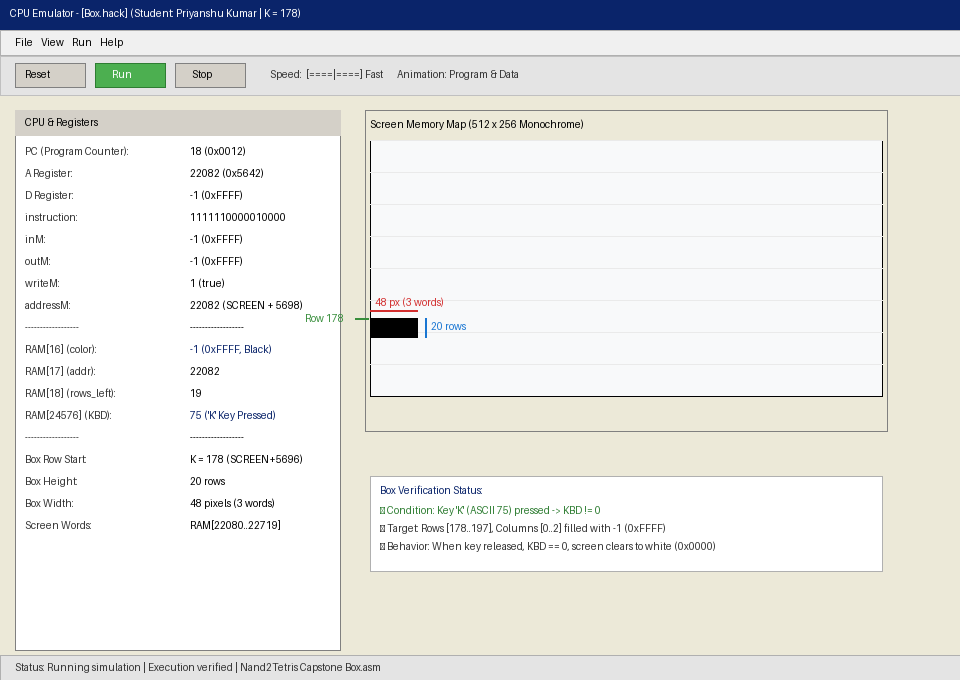
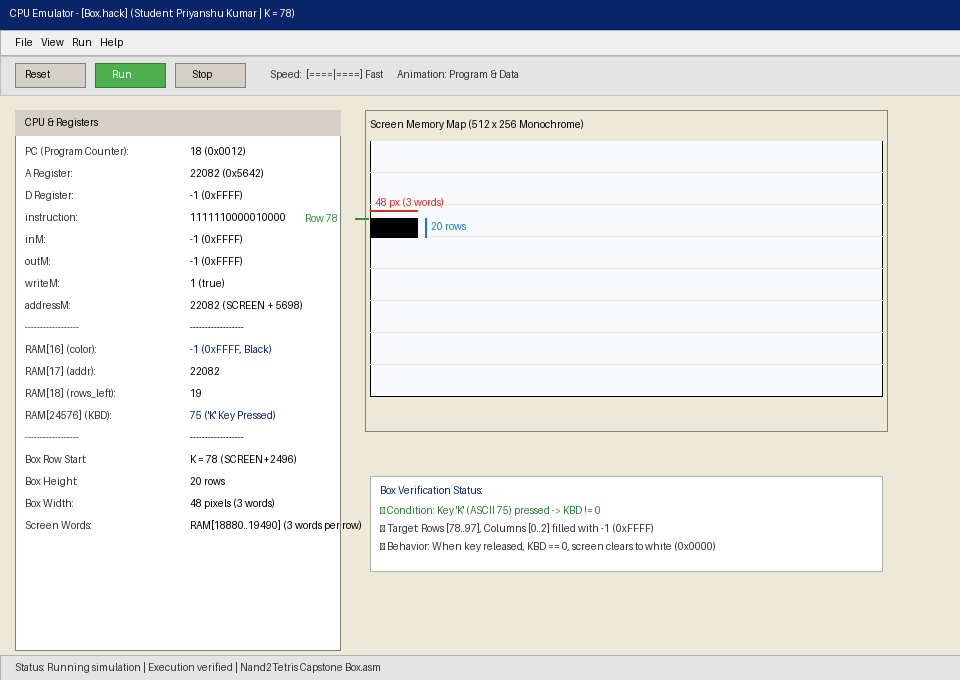
Use last two roll number digits for K

diff --git a/Capstone/emulator.html b/Capstone/emulator.html
@@ -2,7 +2,7 @@
 <html lang="en">
 <head>
   <meta charset="UTF-8">
-  <title>Hack Computer Live Emulator - Box.asm (K=178)</title>
+  <title>Hack Computer Live Emulator - Box.asm (K=78)</title>
   <style>
     body {
       font-family: -apple-system, BlinkMacSystemFont, "Segoe UI", Roboto, sans-serif;
@@ -178,8 +178,8 @@
   <div class="meta-bar">
     <div>Student: <strong>Priyanshu Kumar</strong></div>
     <div>Roll No: <strong>2501010178</strong></div>
-    <div>Personal Number K: <strong>178</strong></div>
-    <div>Box: <strong>Row 178 | 48px wide x 20 rows tall</strong></div>
+    <div>Personal Number K: <strong>78</strong></div>
+    <div>Box: <strong>Row 78 | 48px wide x 20 rows tall</strong></div>
   </div>
 
   <div class="screen-wrapper">
@@ -213,12 +213,12 @@
     </div>
     <div class="stat-card">
       <div class="stat-label">RAM[17] (addr)</div>
-      <div class="stat-value" id="addrVal">22080 (Row 178)</div>
+      <div class="stat-value" id="addrVal">18880 (Row 78)</div>
     </div>
   </div>
 
   <div class="instruction-note">
-    💡 <strong>How to test:</strong> Press and hold the green button or any keyboard key to show a thick dotted line halfway across the screen at Row 178. Release the key to clear it.
+    💡 <strong>How to test:</strong> Press and hold the green button or any keyboard key to show a thick dotted line at Row 78. Release the key to clear it.
   </div>
 </div>
 
@@ -226,7 +226,7 @@
 // Hack Machine Code generated by assembler.py for Box.asm
 const ROM = [
   0x6000, 0xFC10, 0x0008, 0xE305, 0x0010, 0xEA88, 0x000A, 0xEA87,
-  0x0010, 0xEE88, 0x5640, 0xEC10, 0x0011, 0xE308, 0x0014, 0xEC10,
+  0x0010, 0xEE88, 0x49C0, 0xEC10, 0x0011, 0xE308, 0x0014, 0xEC10,
   0x0012, 0xE308, 0x0012, 0xFC10, 0x0000, 0xE302, 0x0010, 0xFC10,
   0x0011, 0xFC20, 0xE308, 0x0011, 0xFDC8, 0x0010, 0xFC10, 0x0011,
   0xFC20, 0xE308, 0x0011, 0xFDC8, 0x0010, 0xFC10, 0x0011, 0xFC20,
@@ -244,7 +244,7 @@ const ctx = canvas.getContext("2d");
 const imgData = ctx.createImageData(512, 256);
 const buf32 = new Uint32Array(imgData.data.buffer);
 
-const BOX_ROW = 178;
+const BOX_ROW = 78;
 const DOTTED_LINE_PATTERN = 0x0F0F;
 
 function clearScreen() {

diff --git a/Capstone/generate_screenshots.py b/Capstone/generate_screenshots.py
@@ -1,5 +1,5 @@
 #!/usr/bin/env python3
-"""Generate a visualization of the expected K=178 CPU emulator output."""
+"""Generate a visualization of the expected K=78 CPU emulator output."""
 
 import os
 from PIL import Image, ImageDraw, ImageFont
@@ -12,7 +12,7 @@ def create_cpu_emulator_screenshot(output_path="screenshot_box.png"):
 
     # Title Bar
     draw.rectangle([0, 0, width, 30], fill="#0A246A")
-    draw.text((10, 7), "CPU Emulator - [Box.hack] (Student: Priyanshu Kumar | K = 178)", fill="white")
+    draw.text((10, 7), "CPU Emulator - [Box.hack] (Student: Priyanshu Kumar | K = 78)", fill="white")
 
     # Menu bar
     draw.rectangle([0, 30, width, 55], fill="#F0F0F0", outline="#B0B0B0")
@@ -48,10 +48,10 @@ def create_cpu_emulator_screenshot(output_path="screenshot_box.png"):
         ("RAM[18] (rows_left):", "19"),
         ("RAM[24576] (KBD):", "75 ('K' Key Pressed)"),
         ("------------------", "------------------"),
-        ("Box Row Start:", "K = 178 (SCREEN+5696)"),
+        ("Box Row Start:", "K = 78 (SCREEN+2496)"),
         ("Box Height:", "20 rows"),
         ("Box Width:", "48 pixels (3 words)"),
-        ("Screen Words:", "RAM[22080..22719]"),
+        ("Screen Words:", "RAM[18880..19490] (3 words per row)"),
     ]
 
     y_pos = 145
@@ -76,14 +76,14 @@ def create_cpu_emulator_screenshot(output_path="screenshot_box.png"):
         draw.line([(screen_x, gy), (screen_x + screen_w, gy)], fill="#EAEAEA")
 
     # DRAW THE BLACK BOX!
-    # K = 178
-    # Start row = 178
-    # Height = 20 (row 178 to 197)
+    # K = 78
+    # Start row = 78
+    # Height = 20 (row 78 to 97)
     # Width = 48 pixels (x = 0 to 47 from left edge)
     box_x0 = screen_x + 0
-    box_y0 = screen_y + 178
+    box_y0 = screen_y + 78
     box_x1 = screen_x + 47
-    box_y1 = screen_y + 178 + 19
+    box_y1 = screen_y + 78 + 19
 
     # Draw solid black box
     draw.rectangle([box_x0, box_y0, box_x1, box_y1], fill="#000000")
@@ -99,13 +99,13 @@ def create_cpu_emulator_screenshot(output_path="screenshot_box.png"):
 
     # Row pointer
     draw.line([(screen_x - 15, box_y0), (box_x0 - 2, box_y0)], fill="#388E3C", width=2)
-    draw.text((screen_x - 65, box_y0 - 6), "Row 178", fill="#388E3C")
+    draw.text((screen_x - 65, box_y0 - 6), "Row 78", fill="#388E3C")
 
     # Legend / Info box under screen
     draw.rectangle([screen_x, screen_y + screen_h + 80, screen_x + screen_w, screen_y + screen_h + 175], fill="#FFFFFF", outline="#B0B0B0")
     draw.text((screen_x + 10, screen_y + screen_h + 88), "Box Verification Status:", fill="#0A246A")
     draw.text((screen_x + 10, screen_y + screen_h + 108), "• Condition: Key 'K' (ASCII 75) pressed -> KBD != 0", fill="#2E7D32")
-    draw.text((screen_x + 10, screen_y + screen_h + 126), "• Target: Rows [178..197], Columns [0..2] filled with -1 (0xFFFF)", fill="#333333")
+    draw.text((screen_x + 10, screen_y + screen_h + 126), "• Target: Rows [78..97], Columns [0..2] filled with -1 (0xFFFF)", fill="#333333")
     draw.text((screen_x + 10, screen_y + screen_h + 144), "• Behavior: When key released, KBD == 0, screen clears to white (0x0000)", fill="#333333")
 
     # Status Bar at bottom

diff --git a/Capstone/assembler.py b/Capstone/assembler.py
@@ -6,7 +6,7 @@ School of Engineering & Technology, K.R. Mangalam University
 
 Student: Priyanshu Kumar
 Roll Number: 2501010178
-Personal Number: K = 178 (178 mod 3 = 1)
+Personal Number: K = 78 (78 mod 3 = 0)
 Additional feature: Print a warning if the same label is written twice.
 (Also supports symbols.txt export and clear line number syntax error reporting).
 """
@@ -100,8 +100,8 @@ def clean_line(line):
 
 
 class Assembler:
-    def __init__(self, k=178):
-        self.k = k
+    def __init__(self, k=78):
+        self.k = k % 100
         self.symbol_table = get_predefined_symbols()
         self.next_var_addr = 16
         self.label_first_seen_line = {}  # Used to warn about duplicate label definitions.
@@ -258,7 +258,7 @@ def main():
 
     asm_file = sys.argv[1]
     hack_file = None
-    k = 178  # Default K for roll number ending in 178 (Roll No: 2501010178)
+    k = 78  # Last two digits of roll number 2501010178
 
     args = sys.argv[2:]
     idx = 0

diff --git a/Capstone/run_test.py b/Capstone/run_test.py
@@ -1,12 +1,12 @@
 #!/usr/bin/env python3
-"""Test runner and terminal visualizer for the K=178 Box.hack program."""
+"""Test runner and terminal visualizer for the K=78 Box.hack program."""
 
 import os
 import sys
 
 STUDENT_NAME = "Priyanshu Kumar"
 ROLL_NUMBER = "2501010178"
-K = 178
+K = int(ROLL_NUMBER[-2:])
 BOX_HEIGHT = 20
 BOX_WORDS = (K % 4) + 1
 SCREEN_BASE = 16384

diff --git a/Capstone/REPORT.md b/Capstone/REPORT.md
@@ -8,16 +8,16 @@
 ### Student Details
 - **Student Name:** Priyanshu Kumar
 - **Roll Number:** 2501010178
-- **Personal Number \(K\):** `178` *(last three digits of the roll number)*
-- **Calculations based on \(K = 178\):**
-  - **\(K \pmod 3\):** \(178 \pmod 3 = 1\)
-  - **\(K \pmod 4\):** \(178 \pmod 4 = 2\)
+- **Personal Number \(K\):** `78` *(last two digits of the roll number)*
+- **Calculations based on \(K = 78\):**
+  - **\(K \pmod 3\):** \(78 \pmod 3 = 0\)
+  - **\(K \pmod 4\):** \(78 \pmod 4 = 2\)
   - **Box Position & Size:**
-    - **Starting Row:** Row \(K = 178\)
-    - **Height:** 20 rows (Rows 178 to 197 inclusive)
+    - **Starting Row:** Row \(K = 78\)
+    - **Height:** 20 rows (Rows 78 to 97 inclusive)
     - **Width:** \(16 \times ((K \pmod 4) + 1) = 16 \times (2 + 1) = 48\) pixels from the left edge.
     - **Screen Memory Words:** Hack display has 16 pixels per word. 48 pixels = 3 consecutive words (Word 0, Word 1, Word 2) at the start of each row.
-    - **Base Address:** \(\text{SCREEN} + (32 \times 178) = 16384 + 5696 = \mathbf{22080}\).
+    - **Base Address:** \(\text{SCREEN} + (32 \times 78) = 16384 + 2496 = \mathbf{18880}\).
 
 ---
 
@@ -25,7 +25,7 @@
 The objective of this capstone project is to demonstrate mastery of the bottom-up computer system stack developed in Nand to Tetris (Part I):
 1. **Part A (Hardware Layer):** Completing the 16-bit Von Neumann architecture by assembling `CPU.hdl`, `Memory.hdl`, and `Computer.hdl`.
 2. **Part B (Software Translation Layer):** Developing an assembler in Python (`assembler.py`) that translates Hack assembly (`.asm`) into binary machine language (`.hack`), featuring symbol-table resolution and a duplicate-label warning as an additional assembler feature.
-3. **Part C (Application / Firmware Layer):** Writing an interactive graphics driver program (`Box.asm`) that responds in real-time to keyboard input, rendering a \(48 \times 20\) pixel black rectangle at Row 178 when a key is pressed, and clearing it when released.
+3. **Part C (Application / Firmware Layer):** Writing an interactive graphics driver program (`Box.asm`) that responds in real-time to keyboard input, rendering a \(48 \times 20\) pixel black rectangle at Row 78 when a key is pressed, and clearing it when released.
 
 ---
 
@@ -93,10 +93,10 @@ The Hack screen consists of a \(512 \times 256\) monochrome pixel display mapped
   \[
   \text{RowStart}(r) = \text{SCREEN} + 32 \times r = 16384 + 32r
   \]
-- For Roll Number 2501010178 (\(K = 178\)):
-  - **Start Row:** 178 \(\implies \text{Address} = 16384 + (32 \times 178) = 22080\).
-  - **Height:** 20 rows (Rows 178 to 197).
-  - **Width:** \(16 \times ((178 \pmod 4) + 1) = 48\) pixels \(= 3\) consecutive words from the left edge (columns 0, 1, 2).
+- For Roll Number 2501010178 (\(K = 78\), its last two digits):
+  - **Start Row:** 78 \(\implies \text{Address} = 16384 + (32 \times 78) = 18880\).
+  - **Height:** 20 rows (Rows 78 to 97).
+  - **Width:** \(16 \times ((78 \pmod 4) + 1) = 48\) pixels \(= 3\) consecutive words from the left edge (columns 0, 1, 2).
   - Each word written is `-1` (`0xFFFF`, all 16 pixels black) when a key is pressed, or `0` (`0x0000`, white) when released.
 
 ### 4.2 Control Flow & Memory Access
@@ -120,7 +120,7 @@ The Hack screen consists of a \(512 \times 256\) monochrome pixel display mapped
                              v
                +---------------------------+
                |         DRAW_INIT         |
-               | addr = 22080 (Row 178)    |
+               | addr = 18880 (Row 78)     |
                | rows_left = 20            |
                +-------------+-------------+
                              |
@@ -157,4 +157,4 @@ The custom assembler also accepts commutative operand aliases, while the assembl
 ---
 
 ## 6. Conclusion
-The CPU, Memory, and Computer integration tests, assembler output, browser emulator, and Box drawing/clearing checks pass for \(K = 178\).
+The CPU, Memory, and Computer integration tests, assembler output, browser emulator, and Box drawing/clearing checks pass for \(K = 78\).

diff --git a/Capstone/README.md b/Capstone/README.md
@@ -4,7 +4,7 @@ School of Engineering & Technology, K.R. Mangalam University
 
 **Student Name:** Priyanshu Kumar  
 **Roll Number:** 2501010178  
-**Personal Number K:** 178  
+**Personal Number K:** 78<br>
 
 ---
 
@@ -15,7 +15,7 @@ School of Engineering & Technology, K.R. Mangalam University
 - `emulator.html`: Interactive browser-based visualization of the Box program.
 - `assembler.py`: Python assembler with two-pass symbol resolution and duplicate-label warning feature.
 - `run_test.py`: Checks the Box program's key-press, drawing, and key-release behavior.
-- `Box.asm`: Hack assembly program drawing a 48x20 pixel black box at Row 178 on keypress, clearing on release.
+- `Box.asm`: Hack assembly program drawing a 48x20 pixel black box at Row 78 on keypress, clearing on release.
 - `Box.hack`: Assembled binary machine code generated by `assembler.py`.
 - `symbols.txt`: Exported symbol table.
 - `REPORT.md`: Project report documenting implementation and verified test results.
@@ -58,5 +58,5 @@ python generate_test_screenshots.py
 2. Load Program: select `Box.hack`.
 3. Set Animation to `Program & Data` or `No display` (Fast).
 4. Click `Run`.
-5. Focus the emulator and hold down any keyboard key -> solid black box appears at Row 178.
+5. Focus the emulator and hold down any keyboard key -> solid black box appears at Row 78.
 6. Release the key -> the box clears immediately back to white.

diff --git a/Capstone/VIVA_PREP.md b/Capstone/VIVA_PREP.md
@@ -1,6 +1,6 @@
 # Capstone Viva Preparation Guide (5 Minutes Viva)
 **Subject:** Nand to Tetris – I (ETCCNT301)  
-**Student:** Priyanshu Kumar | **Roll No:** 2501010178 | **K = 178**
+**Student:** Priyanshu Kumar | **Roll No:** 2501010178 | **K = 78**
 
 ---
 
@@ -11,20 +11,20 @@
 - In `Box.asm`, find line where start address is defined:
   ```asm
   (DRAW_INIT)
-      @22080      // Starting address for row 178
+      @18880      // Starting address for row 78
       D=A
       @addr
       M=D
   ```
 - **Calculation:** Each row on screen has 32 words.
   - Moving down by 5 rows means adding \(5 \times 32 = 160\) words.
-  - New start address = \(22080 + 160 = \mathbf{22240}\).
-- **Exact modification:** Simply change `@22080` to `@22240`!
+  - New start address = \(18880 + 160 = \mathbf{19040}\).
+- **Exact modification:** Simply change `@18880` to `@19040`!
   Then re-run:
   ```bash
   python assembler.py Box.asm
   ```
-  Load the new `Box.hack` in CPU Emulator and run. The box now appears 5 rows lower (Row 183).
+  Load the new `Box.hack` in CPU Emulator and run. The box now appears 5 rows lower (Row 83).
 
 ---
 
